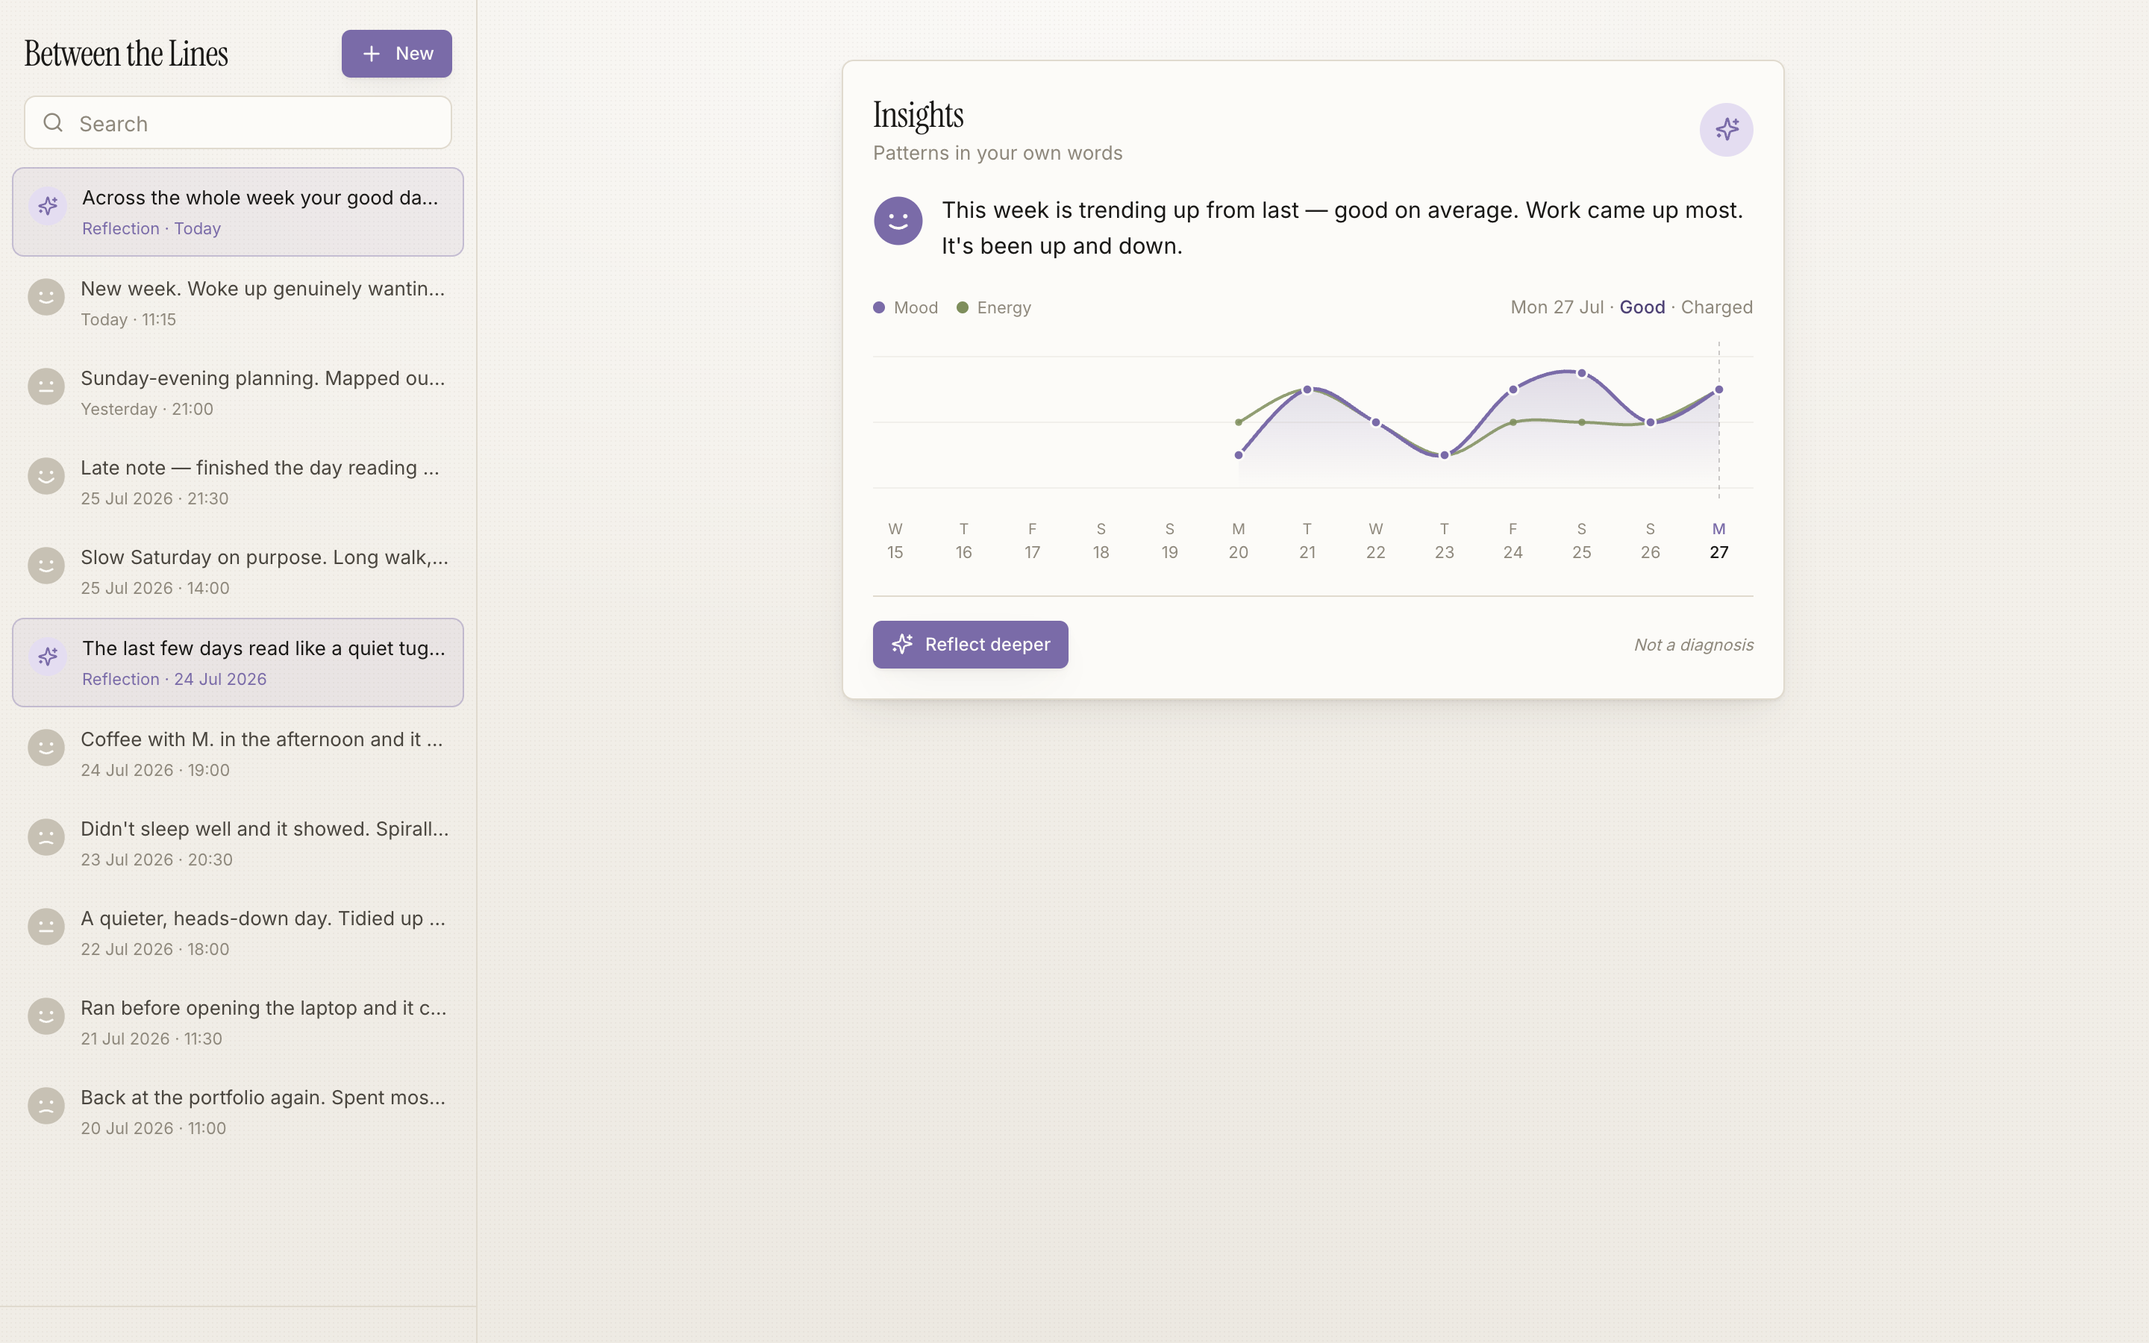
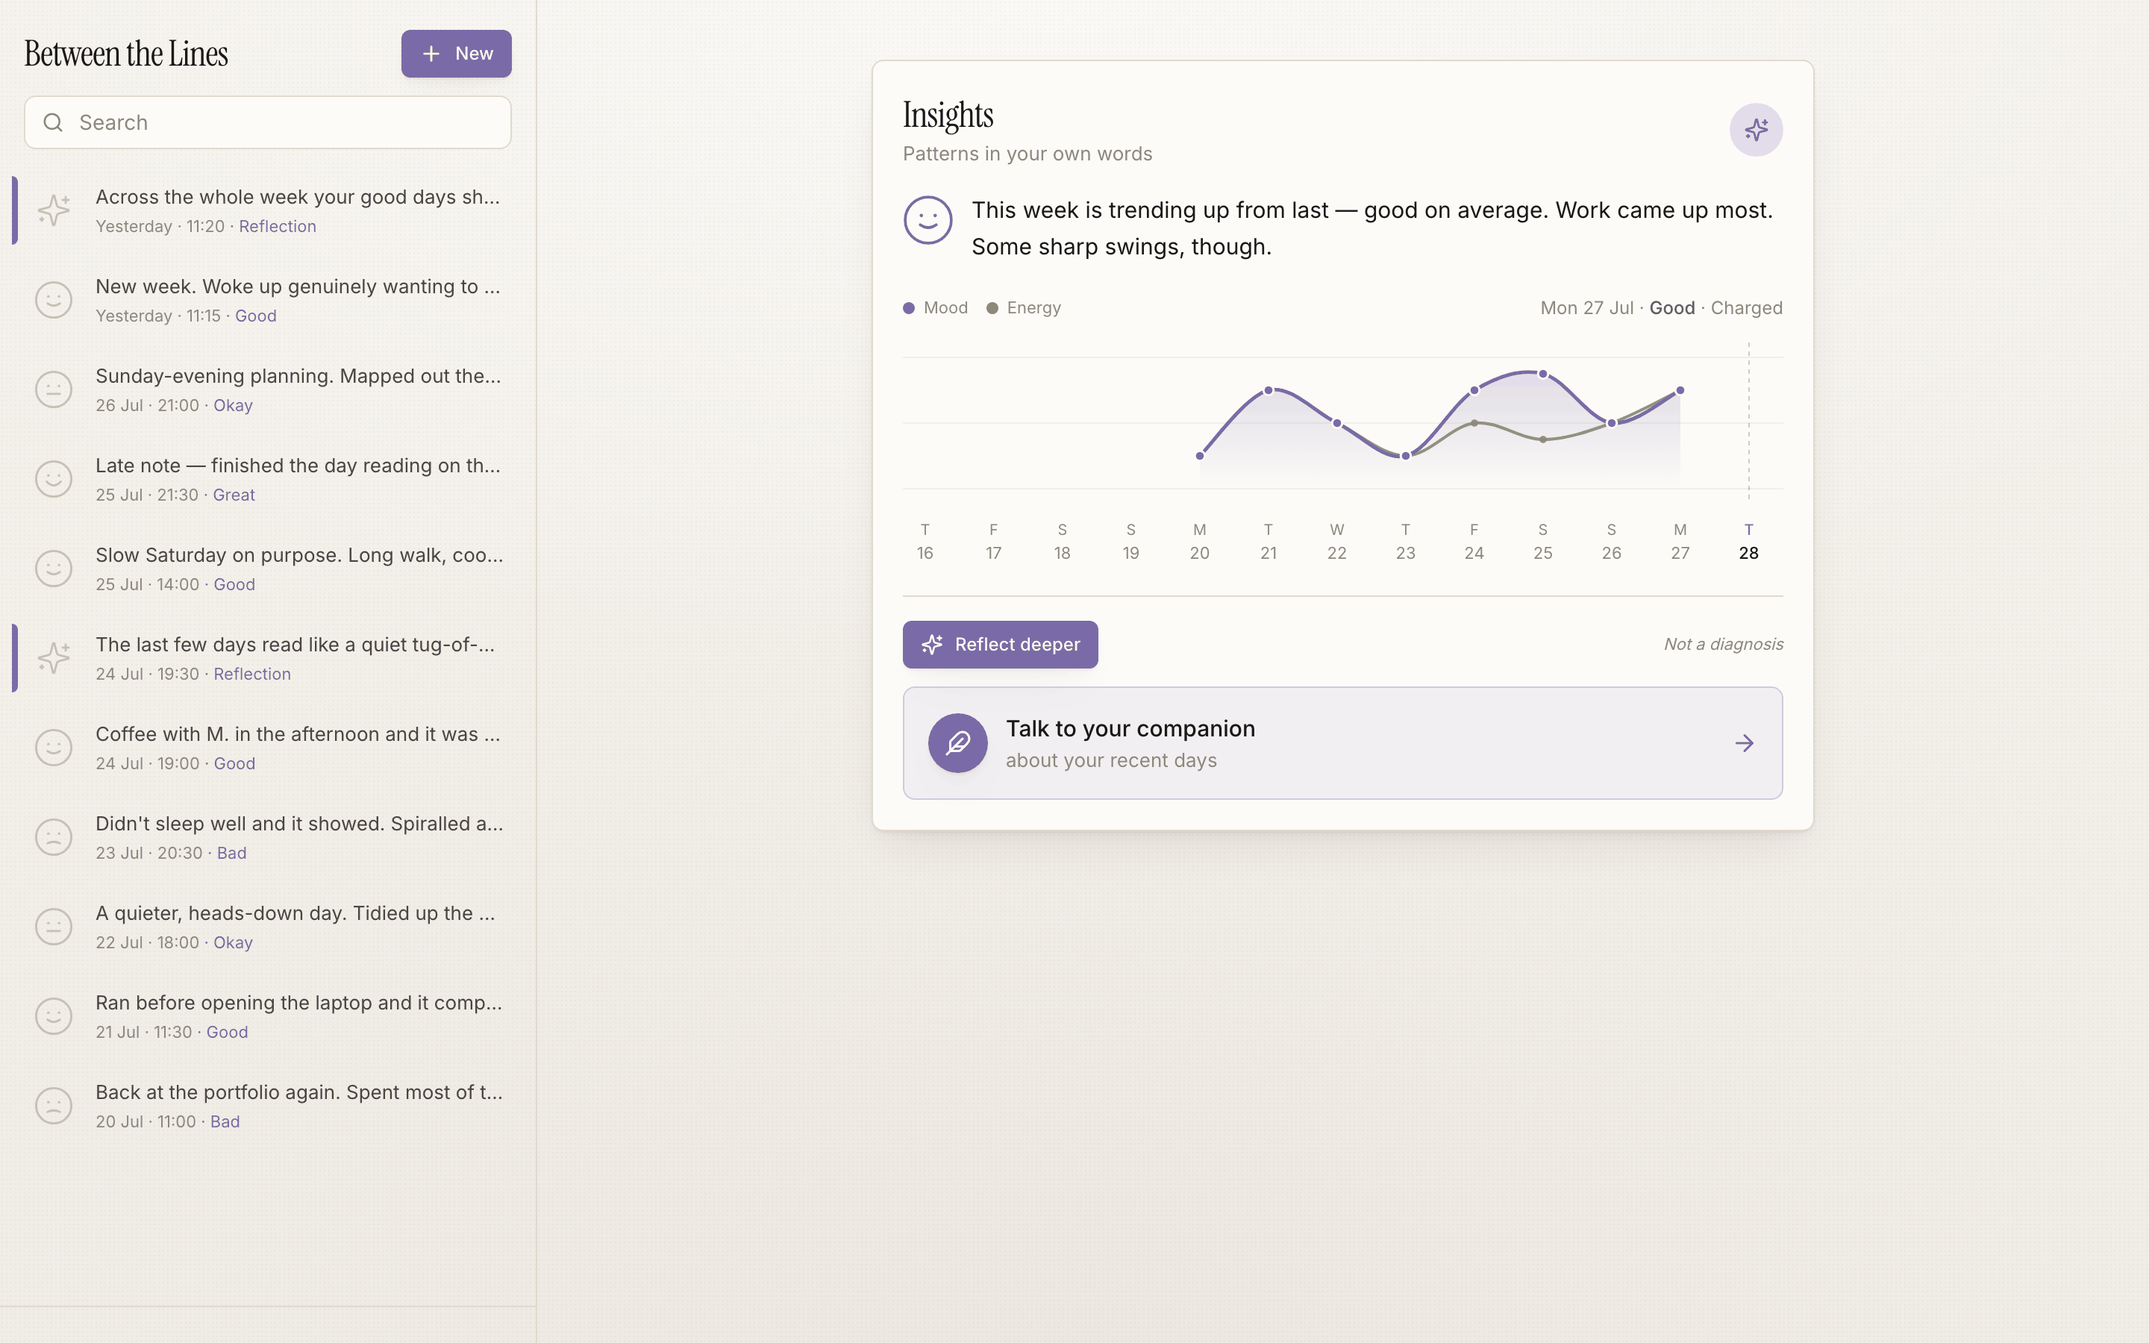
Between the Lines: all plates real + new Companion section
Eight placeholders become annotated plates (RepApp margin-note style):
chatbot, landscape, before (v1 from git history), principle, dictation,
trend, showcase, roadmap. New section 11 introduces the Companion as the
answer to the chatbot risk, with a plate showing the grounded opening,
the handed-back question and the crisis guardrail. Stale captures of the
old list design refreshed (mobile timeline + desktop). Hero untouched.

diff --git a/between-the-lines.html b/between-the-lines.html
@@ -493,7 +493,7 @@ const T = {
     glance:{
       eyebrow:'At a glance',
       problem:{k:'Problem', v:'Journaling tools sit at two extremes, a blank page or a mood emoji. More and more people take their inner life to a general chatbot instead: in a 2025 US survey, <strong>~49%</strong> of people with an ongoing mental-health condition used one for support. The tool they confide in only agrees with them.'},
-      role:{k:'My role', v:'<strong>Product &amp; UX Designer, solo design and build.</strong> During the AI Product Masterclass (Nueve Design, 2026, five-week intensive) I designed the journal and built it into a working product: writing separated from rating, mood as a two-axis grid, dictation rebuilt around Whisper, insights computed on the device.'},
+      role:{k:'My role', v:'<strong>Product &amp; UX Designer, solo design and build.</strong> During the AI Product Masterclass (Nueve Design, 2026, five-week intensive) I designed the journal and built it into a working product: writing separated from rating, mood as a two-axis grid, dictation rebuilt around Whisper, insights computed on the device, and a Companion chat grounded in the journal.'},
       value:{
         k:'Value',
         items:[
@@ -511,7 +511,7 @@ const T = {
       }
     },
     footBack:'Back to all projects',
-    footNote:'Designed and built in 2026 during the AI Product Masterclass (Nueve Design), then taken further as a working demo. No real users yet, so outcomes are qualitative, and any insight text shown is illustrative and labelled. It runs as a live, clickable demo, and this case study will keep growing as real screenshots replace placeholders.',
+    footNote:'Designed and built in 2026 during the AI Product Masterclass (Nueve Design), then taken further as a working demo. No real users yet, so outcomes are qualitative, and any insight text shown is illustrative and labelled. It runs as a live, clickable demo, and every screen shown here is captured from the running build or drawn for this case.',
     meta:[
       {k:'Role',       v:'Product & UX Designer'},
       {k:'Scope',      v:'Design and build, solo'},
@@ -530,7 +530,7 @@ const T = {
     glance:{
       eyebrow:'Kort fortalt',
       problem:{k:'Problem', v:'Dagbøker havner på to ytterpunkter, en blank side eller en humør-emoji. Flere og flere tar heller innerlivet sitt til en generell chatbot: i en amerikansk undersøkelse fra 2025 brukte <strong>~49%</strong> av personer med en pågående psykisk lidelse en slik til støtte. Verktøyet de betror seg til, er bare enig med dem.'},
-      role:{k:'Min rolle', v:'<strong>Produkt- og UX-designer, design og bygg alene.</strong> Under AI Product Masterclass (Nueve Design, 2026, fem ukers intensiv) designet jeg dagboken og bygde den til et fungerende produkt: skriving skilt fra vurdering, humør som et rutenett med to akser, diktering bygd om rundt Whisper, innsikt beregnet på enheten.'},
+      role:{k:'Min rolle', v:'<strong>Produkt- og UX-designer, design og bygg alene.</strong> Under AI Product Masterclass (Nueve Design, 2026, fem ukers intensiv) designet jeg dagboken og bygde den til et fungerende produkt: skriving skilt fra vurdering, humør som et rutenett med to akser, diktering bygd om rundt Whisper, innsikt beregnet på enheten, og en Companion-chat forankret i dagboken.'},
       value:{
         k:'Verdi',
         items:[
@@ -548,7 +548,7 @@ const T = {
       }
     },
     footBack:'Tilbake til alle prosjekter',
-    footNote:'Designet og bygget i 2026 under AI Product Masterclass (Nueve Design), og tatt videre som en fungerende demo. Ingen ekte brukere ennå, så resultatene er kvalitative, og all innsiktstekst som vises er illustrerende og merket. Den kjører som en live, klikkbar demo, og denne case-studien vil vokse videre etter hvert som ekte skjermbilder erstatter plassholdere.',
+    footNote:'Designet og bygget i 2026 under AI Product Masterclass (Nueve Design), og tatt videre som en fungerende demo. Ingen ekte brukere ennå, så resultatene er kvalitative, og all innsiktstekst som vises er illustrerende og merket. Den kjører som en live, klikkbar demo, og hver skjerm som vises her er hentet fra den kjørende appen eller tegnet for denne casen.',
     meta:[
       {k:'Rolle',      v:'Produkt- og UX-designer'},
       {k:'Omfang',     v:'Design og bygg, alene'},
@@ -571,25 +571,21 @@ const ASSETS = {
     cap:{en:'The running build on desktop — the journal and its insights, not a static mockup.',
          no:'Den kjørende buildet på desktop — dagboken og innsiktene, ikke en statisk mockup.'} },
 
-  chatbot:{ type:'ph', ratio:'land',
-    desc:{en:'A person confiding in a chat bubble that nods back at everything they say. Uneasy, not reassuring.',
-          no:'En person som betror seg til en chatboble som nikker tilbake til alt de sier. Ubehagelig, ikke betryggende.'},
-    fmt:{en:'Concept illustration · to be produced', no:'Konseptillustrasjon · lages'} },
+  chatbot:{ type:'img', src:'between-the-lines/assets/chatbot.png', wide:true,
+    cap:{en:'The quiet risk, sketched: a chat that nods along, states things confidently, and knows nothing about the person\'s week.',
+         no:'Den stille faren, skissert: en chat som nikker med, uttaler seg selvsikkert, og ikke vet noe om personens uke.'} },
 
-  landscape:{ type:'ph', ratio:'wide',
-    desc:{en:'Two extremes side by side: an intimidating empty editor, and a row of mood emojis, with the gap between them named.',
-          no:'To ytterpunkter side om side: en skremmende tom editor, og en rad med humør-emojier, med gapet mellom dem navngitt.'},
-    fmt:{en:'Concept illustration · to be produced', no:'Konseptillustrasjon · lages'} },
+  landscape:{ type:'img', src:'between-the-lines/assets/landscape.png', wide:true,
+    cap:{en:'The two extremes, sketched: the blank page and the emoji row, and the gap between them.',
+         no:'De to ytterpunktene, skissert: den blanke siden og emoji-raden, og gapet mellom dem.'} },
 
-  before:{ type:'ph', ratio:'land',
-    desc:{en:'The original single screen with writing, rating and tagging crammed together. Labelled v1, un-designed.',
-          no:'Den opprinnelige enkeltskjermen med skriving, vurdering og merking klemt sammen. Merket v1, udesignet.'},
-    fmt:{en:'Screen capture · v1, before the redesign', no:'Skjermbilde · v1, før redesignet'} },
+  before:{ type:'img', src:'between-the-lines/assets/before.png', wide:true,
+    cap:{en:'v1, captured from the first build: writing, rating and tagging crammed onto one screen, with demo text.',
+         no:'v1, hentet fra den første versjonen: skriving, vurdering og merking klemt inn på én skjerm, med demotekst.'} },
 
-  principle:{ type:'ph', ratio:'land',
-    desc:{en:'The evidence base drawn plainly, with "not a diagnosis" running underneath all of it.',
-          no:'Kunnskapsgrunnlaget tegnet enkelt, med «ikke en diagnose» som løper under det hele.'},
-    fmt:{en:'Diagram · to be produced', no:'Diagram · lages'} },
+  principle:{ type:'img', src:'between-the-lines/assets/principle.png', wide:true,
+    cap:{en:'The evidence base as the design partner: borrowed psychology, one refused shortcut, and the line that runs under everything.',
+         no:'Kunnskapsgrunnlaget som designpartner: lånt psykologi, én avvist snarvei, og linjen som løper under alt.'} },
 
   flow:{ type:'img', src:'between-the-lines/assets/journey.webp', shape:'phone',
     cap:{en:'The two-step entry in motion — write first, then the reflect step appears.',
@@ -603,29 +599,29 @@ const ASSETS = {
     cap:{en:'The reflect step — the Affect Grid places one dot and reads it back as mood and energy.',
          no:'Refleksjonssteget — Affect Grid plasserer én prikk og leser den tilbake som humør og energi.'} },
 
-  dictation:{ type:'ph', ratio:'wide',
-    desc:{en:'Left: the browser speech API, Chrome only. Right: record then transcribe with Whisper, working across browsers.',
-          no:'Venstre: nettleserens tale-API, kun Chrome. Høyre: ta opp og transkriber med Whisper, fungerer på tvers av nettlesere.'},
-    fmt:{en:'Diagram · to be produced', no:'Diagram · lages'} },
+  dictation:{ type:'img', src:'between-the-lines/assets/dictation.png', wide:true,
+    cap:{en:'The dictation rebuild: the browser speech API failed silently outside Chrome, so recording plus server-side Whisper replaced it.',
+         no:'Ombyggingen av dikteringen: nettleserens tale-API feilet stille utenfor Chrome, så opptak pluss Whisper på serversiden erstattet det.'} },
 
   card:{ type:'img', src:'between-the-lines/assets/mobile-reflection-detail.png', shape:'phone',
     cap:{en:'A reflection in detail — the on-device conclusion with the honest privacy note underneath.',
          no:'En refleksjon i detalj — konklusjonen beregnet på enheten, med den ærlige personvern-teksten under.'} },
 
-  trend:{ type:'ph', ratio:'land',
-    desc:{en:'The mood-and-energy trend chart, two smooth curves running through the week.',
-          no:'Humør- og energitrendgrafen, to jevne kurver gjennom uken.'},
-    fmt:{en:'Screen capture · from the running demo', no:'Skjermbilde · fra den kjørende demoen'} },
+  trend:{ type:'img', src:'between-the-lines/assets/trend.png', wide:true,
+    cap:{en:'The Insights card from the running build. The circled Saturday is the reason mood became two axes.',
+         no:'Innsiktskortet fra den kjørende appen. Den innsirklede lørdagen er grunnen til at humør ble to akser.'} },
 
-  showcase:{ type:'ph', ratio:'wide',
-    desc:{en:'A polished set of the core screens: Journal, the two-step entry, the Affect Grid, and the insight card.',
-          no:'Et forseggjort sett av kjerneskjermene: dagbok, to-stegs-notatet, Affect Grid, og innsiktskortet.'},
-    fmt:{en:'Screen capture · from the running demo', no:'Skjermbilde · fra den kjørende demoen'} },
+  companion:{ type:'img', src:'between-the-lines/assets/companion.png', wide:true,
+    cap:{en:'The Companion in the running build: a grounded opening, a question handed back, and the crisis guardrail with Norway\'s real help lines.',
+         no:'Companion i den kjørende appen: en forankret åpning, et spørsmål gitt tilbake, og krisesikringen med Norges virkelige hjelpelinjer.'} },
 
-  roadmap:{ type:'ph', ratio:'wide',
-    desc:{en:'A calm forward frame: real users, a public link, and longitudinal language insight as the next horizon.',
-          no:'En rolig blikk framover: ekte brukere, en offentlig lenke, og innsikt i språk over tid som neste horisont.'},
-    fmt:{en:'Concept illustration · to be produced', no:'Konseptillustrasjon · lages'} }
+  showcase:{ type:'img', src:'between-the-lines/assets/showcase.png', wide:true,
+    cap:{en:'Four screens from the running build: the journal home, the two-step entry, the Affect Grid, and the Insights card.',
+         no:'Fire skjermer fra den kjørende appen: dagbok-hjemmet, to-stegs-notatet, Affect Grid, og innsiktskortet.'} },
+
+  roadmap:{ type:'img', src:'between-the-lines/assets/roadmap.png', wide:true,
+    cap:{en:'The forward frame: live today, real journalers next, and a longitudinal reading of language after that.',
+         no:'Blikket framover: live i dag, ekte dagbokskrivere som neste steg, og en langsgående lesning av språket etter det.'} }
 };
 
 const SECTIONS = [
@@ -775,13 +771,28 @@ const SECTIONS = [
     assets:['card','trend']
   },
   {
+    id:'companion', nav:{en:'The Companion',no:'Companion'},
+    eyebrow:{en:'11 · The Companion',no:'11 · Companion'},
+    h:{en:'The Companion answers the chatbot problem instead of ignoring it',
+       no:'Companion svarer p\u00e5 chatbot-problemet i stedet for \u00e5 overse det'},
+    body:{
+      en:['A journal that reads between the lines invites an obvious next wish: someone to talk to about it. Instead of pretending that wish away, <strong>the product ships a conversation built the other way round from the generic chatbot</strong>. The Companion opens from the page, quoting what the week actually says, and <strong>hands a question back before it answers one</strong>. When the language crosses a crisis threshold, <strong>it drops the conversation and shows Norway\u2019s real help lines</strong>, right in the thread. The same rule as everywhere else, an adjunct and never a therapist, only now it can hold a conversation without breaking it.'],
+      no:['En dagbok som leser mellom linjene, inviterer til et \u00e5penbart neste \u00f8nske: noen \u00e5 snakke med om det. I stedet for \u00e5 late som \u00f8nsket ikke finnes, <strong>leverer produktet en samtale bygget motsatt vei av den generiske chatboten</strong>. Companion \u00e5pner fra siden, siterer det uken faktisk sier, og <strong>gir et sp\u00f8rsm\u00e5l tilbake f\u00f8r den svarer p\u00e5 ett</strong>. N\u00e5r spr\u00e5ket krysser en kriseterskel, <strong>slipper den samtalen og viser Norges virkelige hjelpelinjer</strong>, rett i tr\u00e5den. Samme regel som overalt ellers, et supplement og aldri en terapeut, bare at den n\u00e5 kan holde en samtale uten \u00e5 bryte den.']
+    },
+    assets:['companion'],
+    close:{
+      en:'The reply to a chatbot that always agrees is not silence. It is a companion that asks back.',
+      no:'Svaret p\u00e5 en chatbot som alltid er enig, er ikke stillhet. Det er en companion som sp\u00f8r tilbake.'
+    }
+  },
+  {
     id:'clickable', nav:{en:'A shipped product',no:'Et lansert produkt'},
-    eyebrow:{en:'11 · Delivery',no:'11 · Leveranse'},
+    eyebrow:{en:'12 · Delivery',no:'12 · Leveranse'},
     h:{en:'From concept to a clickable product',
        no:'Fra konsept til et klikkbart produkt'},
     body:{
-      en:['The point of the technical layer is <strong>a design that ships, not just a mockup</strong>. It runs end to end on React and TypeScript, a Tiptap editor, Vercel serverless functions, Whisper for dictation and Grok for the on-demand reflections. These tools were new, learned under a mentor’s guidance, and the thing worth showing is the distance covered, <strong>from concept to a genuinely usable product</strong>, with AI as an accelerator throughout.'],
-      no:['Poenget med det tekniske laget er <strong>et design som lanseres, ikke bare en mockup</strong>. Det kjører ende til ende på React og TypeScript, en Tiptap-editor, Vercel serverless-funksjoner, Whisper for diktering og Grok for refleksjonene på forespørsel. Disse verktøyene var nye, lært under en mentors veiledning, og det som er verdt å vise er avstanden som er tilbakelagt, <strong>fra konsept til et genuint brukbart produkt</strong>, med KI som akselerator hele veien.']
+      en:['The point of the technical layer is <strong>a design that ships, not just a mockup</strong>. It runs end to end on React and TypeScript, a Tiptap editor, Vercel serverless functions, Whisper for dictation and Grok models for the on-demand reflections and the Companion\u2019s replies. These tools were new, learned under a mentor’s guidance, and the thing worth showing is the distance covered, <strong>from concept to a genuinely usable product</strong>, with AI as an accelerator throughout.'],
+      no:['Poenget med det tekniske laget er <strong>et design som lanseres, ikke bare en mockup</strong>. Det kjører ende til ende på React og TypeScript, en Tiptap-editor, Vercel serverless-funksjoner, Whisper for diktering og Grok-modeller for refleksjonene på forespørsel og Companions svar. Disse verktøyene var nye, lært under en mentors veiledning, og det som er verdt å vise er avstanden som er tilbakelagt, <strong>fra konsept til et genuint brukbart produkt</strong>, med KI som akselerator hele veien.']
     },
     assets:['showcase'],
     close:{
@@ -791,7 +802,7 @@ const SECTIONS = [
   },
   {
     id:'reflection', nav:{en:'What it taught',no:'Hva det lærte'},
-    eyebrow:{en:'12 · Lessons',no:'12 · Lærdom'},
+    eyebrow:{en:'13 · Lessons',no:'13 · Lærdom'},
     h:{en:'What the project taught, and where it goes next',
        no:'Hva prosjektet lærte, og hvor det går videre'},
     body:{
@@ -817,7 +828,7 @@ const SECTIONS = [
   },
   {
     id:'sources', nav:{en:'Sources',no:'Kilder'},
-    eyebrow:{en:'13 · Sources',no:'13 · Kilder'},
+    eyebrow:{en:'14 · Sources',no:'14 · Kilder'},
     h:{en:'The public material behind the framing',
        no:'Det offentlige materialet bak innrammingen'},
     body:{
